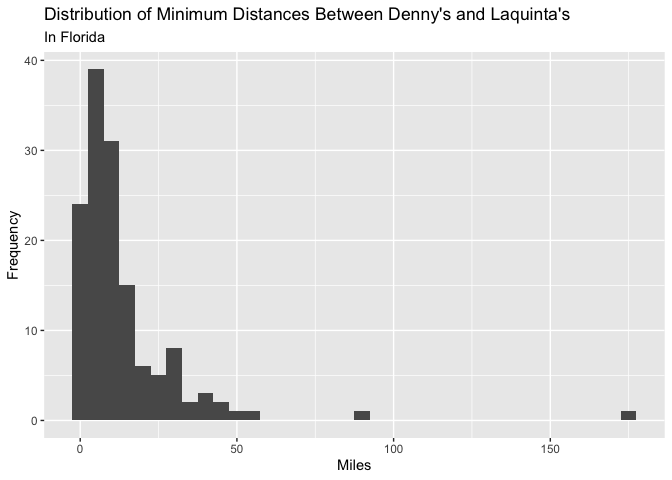
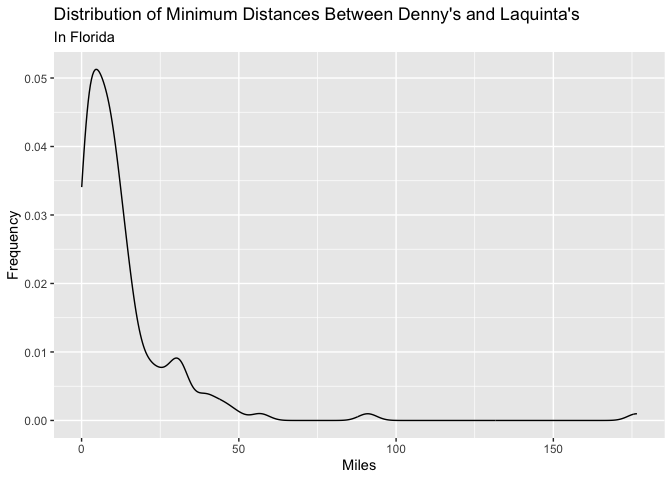
cleaned up lab 5

diff --git a/lab-05.md b/lab-05.md
@@ -8,6 +8,7 @@ Cailey Fay
 ``` r
 library(tidyverse) 
 library(dsbox) 
+library(lemon)
 ```
 
 ``` r
@@ -40,8 +41,7 @@ There are 3 Denny’s and 2 Laquinta’s in Alaska.
 There are 6 Pairings.
 
 ``` r
-#NEED TO ENTER IN HOW TO CODE THIS 
-#How many ways can you arrange 3 dennys and 2 lqs? 
+pairings <- nrow(dn_ak)*nrow(lq_ak)
 ```
 
 ### Exercise 3 and 4
@@ -232,7 +232,7 @@ dn_lq_tx_mindist <- dn_lq_tx %>%
 
 dn_lq_tx_mindist %>%
   ggplot(aes(x=closest)) +
-  geom_histogram(binwidth = 5) +
+  geom_density() +
    labs(title ="Distribution of Minimum Distances Between Denny's and Laquinta's",
        subtitle = "In Texas",
        x= "Miles",
@@ -276,7 +276,7 @@ dn_lq_fl_mindist <- dn_lq_fl %>%
 
 dn_lq_fl_mindist %>%
   ggplot(aes(x=closest)) +
-  geom_histogram(binwidth = 5) +
+  geom_density() +
    labs(title ="Distribution of Minimum Distances Between Denny's and Laquinta's",
        subtitle = "In Florida",
        x= "Miles",
@@ -293,3 +293,102 @@ miles, but many locations are within a mile or two. The 176 mile one is
 very much an outlier, as is the one that is 90 miles away.
 
 ### Exercise 12
+
+I think the joke is most true for Texas, because the proportion of
+Denny’s within a mile from a Laquinta is greatest, adjusting for the
+total number of Dennys in the state. 56/200 are within a mile in Texas,
+whereas 13/139 are within a mile in Florida.
+
+``` r
+dn_lq_ak_mindist %>%
+  filter(closest < 1) %>%
+  count()
+```
+
+    ## # A tibble: 1 × 1
+    ##       n
+    ##   <int>
+    ## 1     0
+
+``` r
+#none are within 0 miles in Alaska 
+
+dn_lq_nc_mindist %>%
+  filter(closest < 1) %>%
+  count()
+```
+
+    ## # A tibble: 1 × 1
+    ##       n
+    ##   <int>
+    ## 1     0
+
+``` r
+#none are within 0 miles in North Carolina 
+
+dn_lq_tx_mindist %>%
+  filter(closest < 1) %>%
+  count()
+```
+
+    ## # A tibble: 1 × 1
+    ##       n
+    ##   <int>
+    ## 1    56
+
+``` r
+#there are 56 within 0 miles in Texas 
+#out of 200
+
+dn_lq_fl_mindist %>%
+  filter(closest < 1) %>%
+  count()
+```
+
+    ## # A tibble: 1 × 1
+    ##       n
+    ##   <int>
+    ## 1    16
+
+``` r
+#There are 16 within 0 miles in Florida 
+# out of 139
+```
+
+### Trying to recreate those plots: Not quite recreated but as much time as I am willing to invest.
+
+``` r
+dn_lq_dist <- full_join(dn, lq, by = "state")
+```
+
+    ## Warning in full_join(dn, lq, by = "state"): Detected an unexpected many-to-many relationship between `x` and `y`.
+    ## ℹ Row 1 of `x` matches multiple rows in `y`.
+    ## ℹ Row 23 of `y` matches multiple rows in `x`.
+    ## ℹ If a many-to-many relationship is expected, set `relationship =
+    ##   "many-to-many"` to silence this warning.
+
+``` r
+dn_lq_dist <- dn_lq_dist %>%
+  mutate(distance = haversine(longitude.x,latitude.x,longitude.y,latitude.y))
+
+dn_lq_mindist <- dn_lq_dist %>%
+  group_by(address.x) %>%
+  mutate(closest = min(distance))
+
+dn_lq_mindist %>%
+  filter(state %in% c("NC","ND","NE","NH","NJ","NM","NV","NY")) %>%
+  ggplot(aes(x=closest, fill=state)) +
+  geom_density() +
+  facet_grid(state ~ ., switch = "y", scales = "free_y") +
+  theme_minimal() +
+  theme(axis.text.y = element_blank()) +
+  labs(title = "Minimum Distances Between Denny's and Laquinta's By State",
+       x = "Nearest Location (In Miles)",
+       y = "Density",
+       legend = "State")
+```
+
+    ## Ignoring unknown labels:
+    ## • legend : "State"
+
+![](lab-05_files/figure-gfm/unnamed-chunk-3-1.png)<!-- -->
